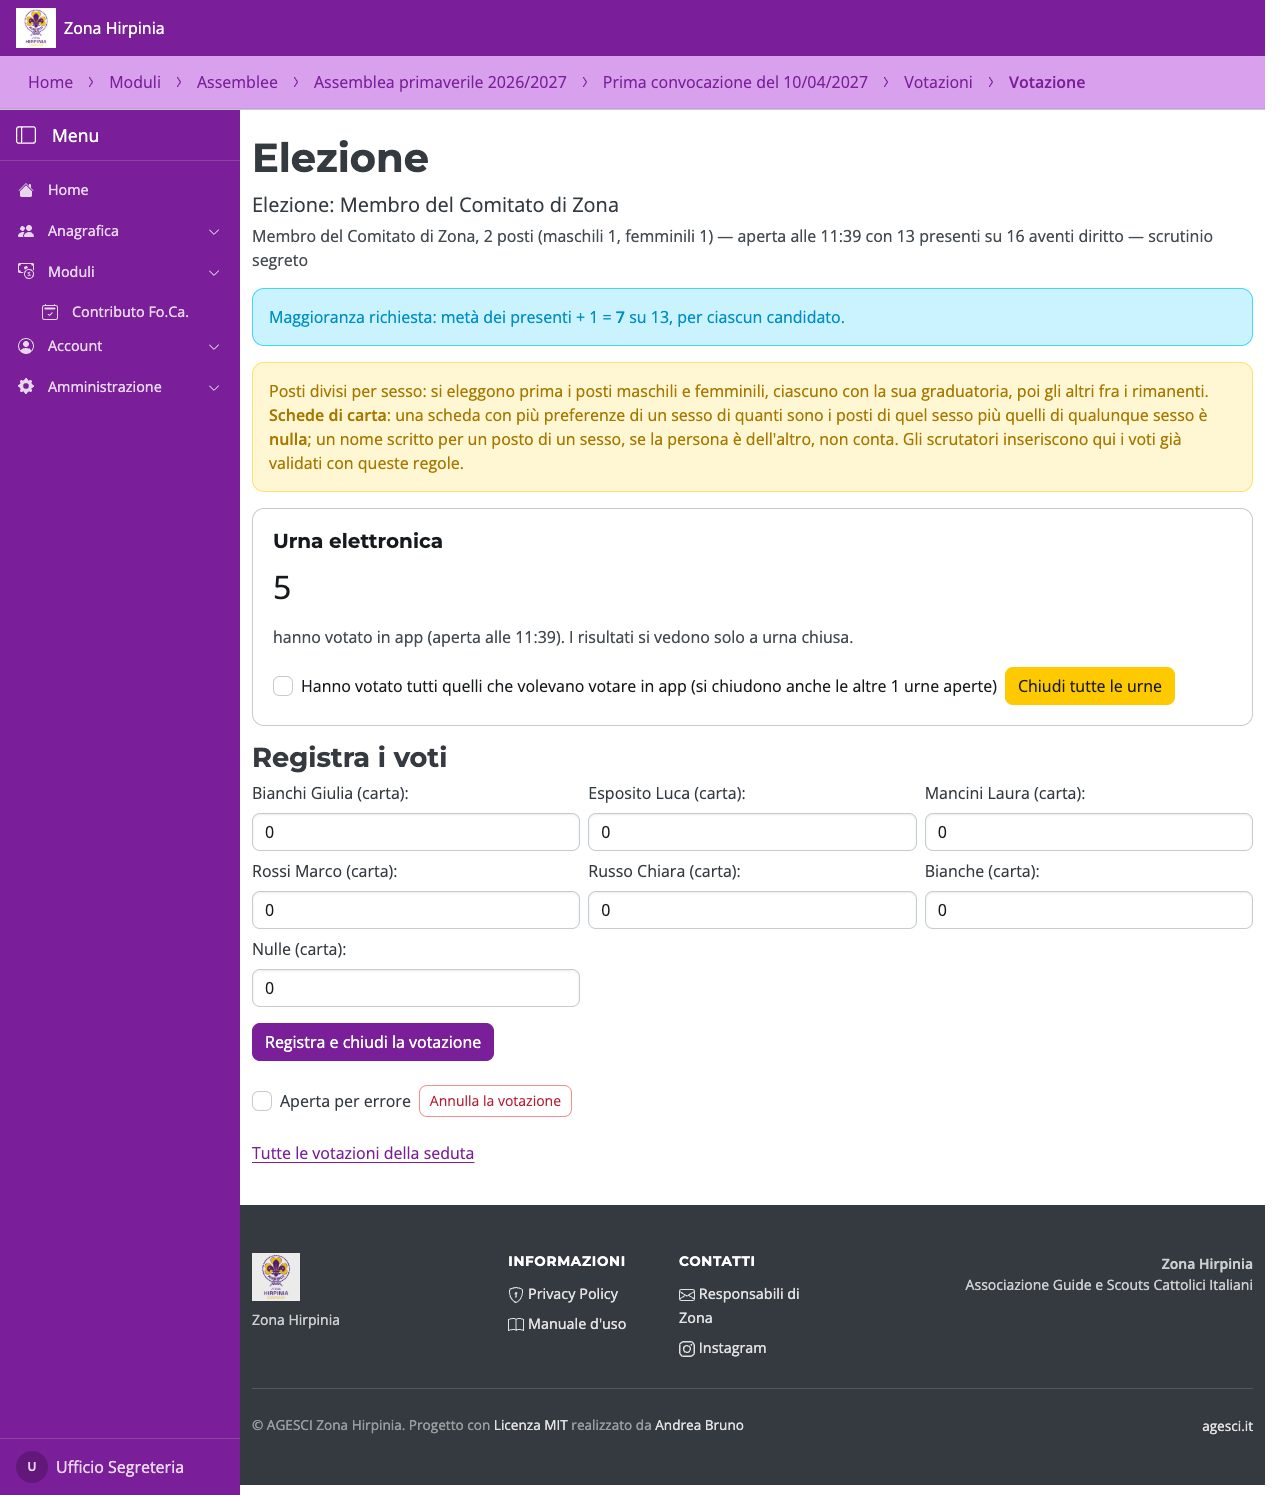
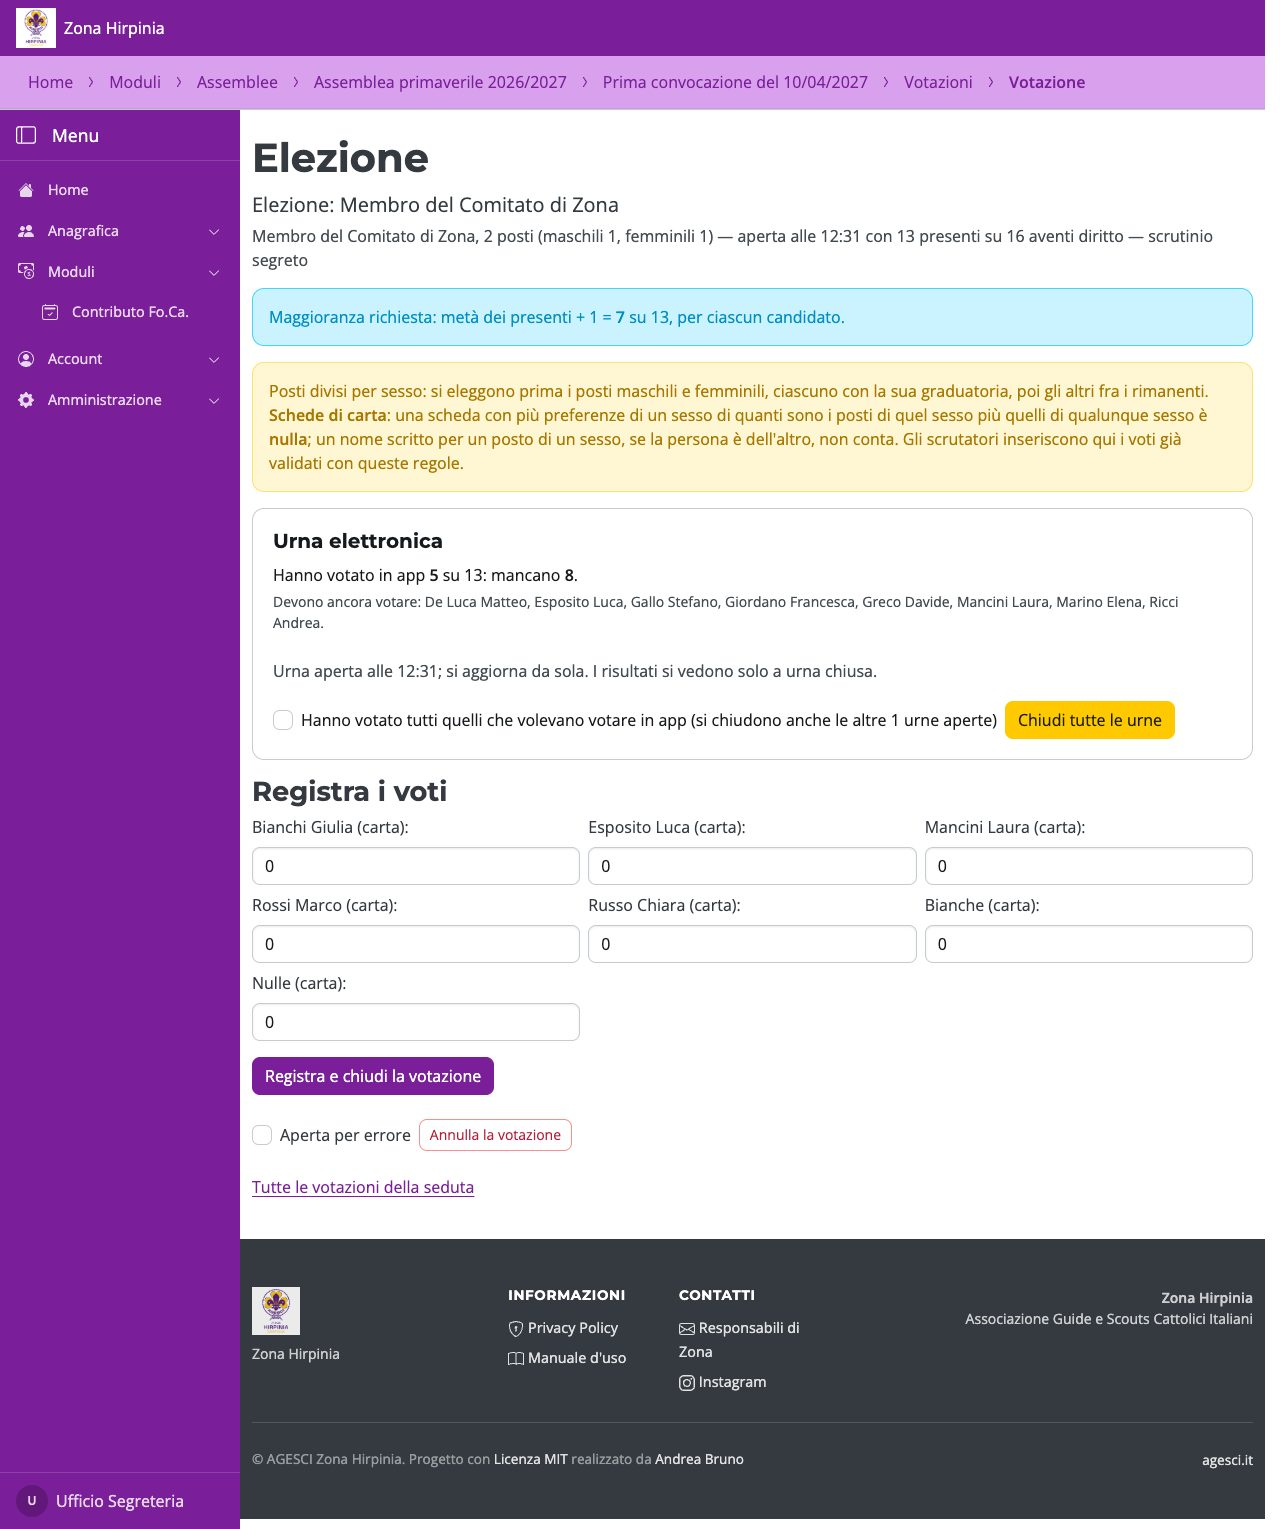
Urne aperte: chi ha votato e chi manca; ricevuta di nuovo a 30 secondi
Pagina della votazione, cruscotto e proiettore mostrano, aggiornati dal
polling, quanti hanno votato in app e quanti mancano per ogni urna aperta
(scrutinio.affluenza()); pagina della votazione e cruscotto anche l'elenco
di chi deve ancora votare, il proiettore solo i numeri. La ricevuta al
seggio torna a 30 secondi, con il pulsante di chiusura in evidenza in cima
e in fondo alla pagina.

diff --git a/static/js/assemblea-cruscotto.js b/static/js/assemblea-cruscotto.js
@@ -45,6 +45,66 @@
     corpo.replaceChildren(righe);
   }
 
+  // Affluenza delle urne aperte: stesso markup di templates/assemblee/_affluenza_urne.html.
+  function paragrafo(classi, parti) {
+    var p = document.createElement("p");
+    p.className = classi;
+    parti.forEach(function (parte) {
+      if (typeof parte === "string") {
+        p.appendChild(document.createTextNode(parte));
+      } else {
+        var strong = document.createElement("strong");
+        strong.textContent = String(parte.forte);
+        p.appendChild(strong);
+      }
+    });
+    return p;
+  }
+
+  function aggiornaUrne(urne) {
+    document.querySelectorAll("[data-urne]").forEach(function (contenitore) {
+      var solo = contenitore.dataset.urneVotazione;
+      var proiettore = contenitore.dataset.urneStile === "proiettore";
+      var blocchi = document.createDocumentFragment();
+      (urne || []).forEach(function (u) {
+        if (solo && String(u.votazione) !== solo) {
+          return;
+        }
+        var div = document.createElement("div");
+        div.className = "mb-5";
+        if (proiettore) {
+          div.appendChild(paragrafo("fs-4xl fw-bold mb-0", [u.votanti + " / " + u.attesi]));
+          div.appendChild(paragrafo("fs-lg mb-0", ["hanno votato in app — " + u.oggetto]));
+        } else {
+          if (!solo) {
+            var h3 = document.createElement("h3");
+            h3.className = "fs-lg mb-1";
+            h3.textContent = u.oggetto;
+            div.appendChild(h3);
+          }
+          div.appendChild(
+            paragrafo(
+              "mb-1",
+              ["Hanno votato in app ", { forte: u.votanti }, " su " + u.attesi + ": "].concat(
+                u.mancano ? ["mancano ", { forte: u.mancano }, "."] : ["hanno votato tutti."]
+              )
+            )
+          );
+          if (u.da_votare && u.da_votare.length) {
+            div.appendChild(
+              paragrafo("fs-sm fg-2 mb-0", ["Devono ancora votare: " + u.da_votare.join(", ") + "."])
+            );
+          }
+        }
+        blocchi.appendChild(div);
+      });
+      contenitore.replaceChildren(blocchi);
+    });
+    document.querySelectorAll("[data-se-urne]").forEach(function (el) {
+      el.classList.toggle("d-none", !(urne && urne.length));
+    });
+  }
+
   function applica(dati) {
     imposta("[data-campo='aventi_diritto']", dati.aventi_diritto);
     imposta("[data-campo='presenti']", dati.presenti);
@@ -87,6 +147,7 @@
       imposta("[data-campo='soglia_revoca']", dati.soglie.revoca);
     }
     aggiornaElenco(dati.elenco);
+    aggiornaUrne(dati.urne);
   }
 
   function segnalaConnessione(ok) {

diff --git a/templates/assemblee/votazione.html b/templates/assemblee/votazione.html
@@ -1,4 +1,5 @@
 {% extends "base.html" %}
+{% load static %}
 
 {% block page_title %}{{ votazione }}{% endblock %}
 
@@ -47,14 +48,14 @@
             {% endif %}
           {% endif %}
         {% elif not votazione.chiusa_in_app_il %}
-          <p class="fs-2xl mb-1">{{ urna.votanti }}</p>
-          <p class="fg-2 mb-3">hanno votato in app (aperta alle {{ votazione.aperta_in_app_il|time:"H:i" }}). I risultati si vedono solo a urna chiusa.</p>
+          {% include "assemblee/_affluenza_urne.html" with urne=urna.affluenza votazione_pk=votazione.pk %}
+          <p class="fg-2 mb-3">Urna aperta alle {{ votazione.aperta_in_app_il|time:"H:i" }}; si aggiorna da sola. I risultati si vedono solo a urna chiusa.</p>
           {% if puo_operare %}
             <form method="post" action="{% url 'voto:urna_azione' assemblea.pk seduta.pk votazione.pk %}" class="d-flex flex-wrap align-items-center gap-3">
               {% csrf_token %}<input type="hidden" name="azione" value="chiudi">
               <div class="form-field mb-0">
                 <input type="checkbox" name="conferma" value="1" id="conferma-chiudi-urna" class="check" required>
-                <label for="conferma-chiudi-urna">Hanno votato tutti quelli che volevano votare in app{% if urna.altre_aperte %} (si chiudono anche le altre {{ urna.altre_aperte|length }} urne aperte){% endif %}</label>
+                <label for="conferma-chiudi-urna">Hanno votato tutti quelli che volevano votare in app{% if urna.altre_aperte|length == 1 %} (si chiude anche l'altra urna aperta){% elif urna.altre_aperte %} (si chiudono anche le altre {{ urna.altre_aperte|length }} urne aperte){% endif %}</label>
               </div>
               <button type="submit" class="btn-solid theme-warning">{% if urna.altre_aperte %}Chiudi tutte le urne{% else %}Chiudi l'urna{% endif %}</button>
             </form>
@@ -113,4 +114,7 @@
   {% endif %}
 
   <p class="mt-7"><a href="{% url 'assemblee:votazioni' assemblea.pk seduta.pk %}">Tutte le votazioni della seduta</a></p>
+  {% if urna.prevista and votazione.aperta_in_app_il and not votazione.chiusa_in_app_il %}
+    <script src="{% static 'js/assemblea-cruscotto.js' %}" data-url-stato="{% url 'assemblee:stato_seduta' assemblea.pk seduta.pk %}?elenco=1" data-intervallo="{{ urna.intervallo_ms }}" defer></script>
+  {% endif %}
 {% endblock %}

diff --git a/templates/assemblee/_affluenza_urne.html b/templates/assemblee/_affluenza_urne.html
@@ -1,0 +1,17 @@
+{# Affluenza delle urne aperte (cruscotto.urne_in_corso()): la riscrive static/js/assemblea-cruscotto.js a ogni aggiornamento, con lo stesso markup. proiettore: solo numeri; votazione: solo quella urna. #}
+<div data-urne{% if proiettore %} data-urne-stile="proiettore"{% endif %}{% if votazione_pk %} data-urne-votazione="{{ votazione_pk }}"{% endif %}>
+  {% for u in urne %}{% if not votazione_pk or u.votazione == votazione_pk %}
+    {% if proiettore %}
+      <div class="mb-5">
+        <p class="fs-4xl fw-bold mb-0">{{ u.votanti }} / {{ u.attesi }}</p>
+        <p class="fs-lg mb-0">hanno votato in app — {{ u.oggetto }}</p>
+      </div>
+    {% else %}
+      <div class="mb-5">
+        {% if not votazione_pk %}<h3 class="fs-lg mb-1">{{ u.oggetto }}</h3>{% endif %}
+        <p class="mb-1">Hanno votato in app <strong>{{ u.votanti }}</strong> su {{ u.attesi }}: {% if u.mancano %}mancano <strong>{{ u.mancano }}</strong>.{% else %}hanno votato tutti.{% endif %}</p>
+        {% if u.da_votare %}<p class="fs-sm fg-2 mb-0">Devono ancora votare: {{ u.da_votare|join:", " }}.</p>{% endif %}
+      </div>
+    {% endif %}
+  {% endif %}{% endfor %}
+</div>

diff --git a/templates/voto/ricevuta.html b/templates/voto/ricevuta.html
@@ -8,6 +8,7 @@
   <div class="row justify-content-center">
     <div class="md:col-8">
       <h1 class="mb-3">Voto registrato</h1>
+      <div class="mb-7">{% include "voto/_ricevuta_chiudi.html" %}</div>
       <p class="mb-5">Annota {% if per_votazione|length == 1 and per_votazione.0.ricevute|length == 1 %}la ricevuta{% else %}le ricevute{% endif %}: a votazione chiusa potrai controllare in bacheca che ogni scheda sia stata contata così.</p>
       {% for voce in per_votazione %}
         <h2 class="fs-xl mb-3">{{ voce.votazione.oggetto }}</h2>
@@ -22,11 +23,7 @@
         {% endfor %}
       {% endfor %}
       <p class="fg-2 mb-5">La ricevuta non dice a nessuno chi sei. Non viene mostrata di nuovo: la puoi controllare in <a href="{% url 'voto:verifica' %}">verifica della ricevuta</a>.</p>
-      {% if al_seggio %}
-        <a href="{% url 'voto:urna' %}" class="btn-solid theme-primary w-100">Fatto, avanti il prossimo</a>
-      {% else %}
-        <a href="{% url 'voto:scheda' %}" class="btn-solid theme-primary w-100">Fatto</a>
-      {% endif %}
+      {% include "voto/_ricevuta_chiudi.html" %}
     </div>
   </div>
 {% endblock %}

diff --git a/templates/assemblee/proiettore.html b/templates/assemblee/proiettore.html
@@ -30,6 +30,10 @@ templates/500.html: Bootstrap 6 con la stessa versione e SRI del tema.
       <div class="md:col-4"><p class="fs-5xl fw-bold mb-0" data-campo="presenti_carta">{{ stato.presenti_carta }}</p><p class="fs-xl">votanti su carta</p></div>
     </div>
 
+    <div class="{% if not stato.urne %}d-none {% endif %}mb-7" data-se-urne>
+      {% include "assemblee/_affluenza_urne.html" with urne=stato.urne proiettore=True %}
+    </div>
+
     <div class="row g-7 mb-7">
       <div class="md:col-6"><p class="fs-4xl fw-bold mb-0" data-campo="soglia_deliberazioni">{{ stato.soglie.deliberazioni }}</p><p class="fs-lg">maggioranza per deliberazioni ed elezioni</p></div>
       <div class="md:col-6"><p class="fs-4xl fw-bold mb-0" data-campo="soglia_revoca">{{ stato.soglie.revoca }}</p><p class="fs-lg">maggioranza per la revoca di un mandato</p></div>

diff --git a/templates/voto/seggi.html b/templates/voto/seggi.html
@@ -7,7 +7,7 @@
   <p class="fg-2 mb-5">
     {{ assemblea }} — {{ seduta.get_convocazione_display }} — modalità: {{ assemblea.get_modalita_voto_display|lower }}.
     Ogni postazione è un tablet o un PC della Zona: si attiva aprendo il link sul dispositivo, che resta un seggio per questa seduta.
-    Dopo ogni voto la pagina mostra la ricevuta per 10 secondi e poi si azzera.
+    Dopo ogni voto la pagina mostra la ricevuta per 30 secondi e poi si azzera.
   </p>
 
   {% for messaggio in messages %}<div class="alert theme-{% if messaggio.tags == 'error' %}danger{% else %}success{% endif %} mb-5" role="status">{{ messaggio }}</div>{% endfor %}

diff --git a/templates/assemblee/cruscotto.html b/templates/assemblee/cruscotto.html
@@ -44,6 +44,11 @@
     {% include "assemblee/_azioni_seduta.html" %}
   </div>
 
+  <div class="{% if not stato.urne %}d-none {% endif %}mb-7" data-se-urne>
+    <h2 class="fs-xl">Urne aperte</h2>
+    {% include "assemblee/_affluenza_urne.html" with urne=stato.urne %}
+  </div>
+
   <h2 class="fs-xl">Maggioranze richieste ora</h2>
   <div class="table-responsive mb-5">
   <table class="table table-sm">

diff --git a/templates/voto/_ricevuta_chiudi.html b/templates/voto/_ricevuta_chiudi.html
@@ -1,0 +1,6 @@
+{# Pulsante di chiusura della ricevuta, in evidenza in cima e in fondo alla pagina. #}
+{% if al_seggio %}
+  <a href="{% url 'voto:urna' %}" class="btn-solid theme-success btn-lg w-100">Fatto, avanti il prossimo</a>
+{% else %}
+  <a href="{% url 'voto:scheda' %}" class="btn-solid theme-success btn-lg w-100">Fatto</a>
+{% endif %}

diff --git a/apps/voto/scrutinio.py b/apps/voto/scrutinio.py
@@ -30,6 +30,7 @@ from django.db import transaction
 from django.utils import timezone
 
 from apps.accounts.models import Utente
+from apps.assemblee import quorum
 from apps.assemblee.models import AventeDiritto, Candidato, Seduta, Votazione
 from apps.assemblee.permessi import puo_operare
 
@@ -52,6 +53,55 @@ def urna_usata(votazione: Votazione) -> bool:
 
 def numero_votanti(votazione: Votazione) -> int:
     return Votante.objects.filter(votazione=votazione).count()
+
+
+@dataclass(frozen=True)
+class DaVotare:
+    """Un presente che deve ancora votare in app; per un AE delegante,
+    `tramite` è il delegato che vota per lui."""
+
+    avente: AventeDiritto
+    tramite: AventeDiritto | None = None
+
+
+@dataclass(frozen=True)
+class Affluenza:
+    votanti: int
+    attesi: int
+    da_votare: list[DaVotare]
+
+    @property
+    def mancano(self) -> int:
+        return len(self.da_votare)
+
+
+def affluenza(votazione: Votazione) -> Affluenza:
+    """Chi ha votato in app e chi deve ancora farlo, fra i presenti che votano
+    in app (stessa regola di `urna.schede_spettanti()`: un AE delegante vota
+    tramite il delegato, solo se anche il delegato vota in app). «Chi ha
+    votato» è pubblico per regolamento; cosa ha votato no, e qui non c'è."""
+    seduta = votazione.seduta
+    presenti = list(quorum.presenti(seduta).filter(vota_in_app=True).order_by("cognome", "nome"))
+    di_persona = set(
+        quorum.presenti(seduta)
+        .filter(presenze__appello=quorum.appello_effettivo(seduta))
+        .values_list("pk", flat=True)
+    )
+    deleghe = {d.delegante_id: d.delegato for d in seduta.deleghe.select_related("delegato")}
+    gia = set(Votante.objects.filter(votazione=votazione).values_list("avente_id", flat=True))
+    attesi: list[DaVotare] = []
+    for avente in presenti:
+        if avente.pk in di_persona:
+            attesi.append(DaVotare(avente))
+        else:
+            delegato = deleghe.get(avente.pk)
+            if delegato is not None and delegato.vota_in_app:
+                attesi.append(DaVotare(avente, tramite=delegato))
+    return Affluenza(
+        votanti=len(gia),
+        attesi=len(attesi),
+        da_votare=[a for a in attesi if a.avente.pk not in gia],
+    )
 
 
 @transaction.atomic

diff --git a/apps/voto/tests/test_urna.py b/apps/voto/tests/test_urna.py
@@ -167,6 +167,28 @@ class TestDeleghe:
         assert neri.tramite.cognome == "Bianchi"
         assert Scheda.objects.count() == 2
 
+    def test_affluenza_con_delega(
+        self, delega, elezione, costituita, assemblea, segreteria, client
+    ):
+        from apps.assemblee import cruscotto
+        from apps.voto import scrutinio
+
+        prima = scrutinio.affluenza(elezione)
+        assert (prima.votanti, prima.attesi, prima.mancano) == (0, 4, 4)
+        neri = next(d for d in prima.da_votare if d.avente.cognome == "Neri")
+        assert neri.tramite.cognome == "Bianchi"
+        codice = _codice(costituita, assemblea, "Bianchi", segreteria)
+        # Bianchi vota per sé e per Neri.
+        urna.vota(codice.pk, elezione, [urna.Scelte(esito=urna.ESITO_BIANCA)] * 2)
+        dopo = scrutinio.affluenza(elezione)
+        assert (dopo.votanti, dopo.attesi) == (2, 4)
+        urne = cruscotto.urne_in_corso(costituita, con_elenco=True)
+        assert urne[0]["mancano"] == 2
+        nomi = " ".join(urne[0]["da_votare"])
+        assert len(urne[0]["da_votare"]) == 2 and "Bianchi" not in nomi and "Neri" not in nomi
+        # Sul proiettore solo i numeri.
+        assert "da_votare" not in cruscotto.urne_in_corso(costituita)[0]
+
     def test_delega_non_si_revoca_a_votazione_aperta(
         self, delega, elezione, costituita, assemblea, segreteria
     ):
@@ -303,3 +325,15 @@ def test_chi_arriva_a_urna_aperta_vota_e_conta(elezione, costituita, assemblea, 
     )
     elezione.refresh_from_db()
     assert elezione.chiusa
+
+
+@pytest.mark.django_db
+def test_pagine_con_affluenza(client, elezione, costituita, assemblea, segreteria):
+    client.force_login(segreteria)
+    base = f"/assemblee/{assemblea.pk}/sedute/{costituita.pk}"
+    cruscotto = client.get(f"{base}/cruscotto/").content.decode()
+    assert "Urne aperte" in cruscotto and "Devono ancora votare" in cruscotto
+    proiettore = client.get(f"{base}/proiettore/").content.decode()
+    assert "hanno votato in app" in proiettore and "Devono ancora votare" not in proiettore
+    stato = client.get(f"{base}/stato.json").json()
+    assert stato["urne"][0]["attesi"] == 3 and "da_votare" not in stato["urne"][0]

diff --git a/apps/assemblee/cruscotto.py b/apps/assemblee/cruscotto.py
@@ -88,6 +88,7 @@ def stato_seduta(seduta: Seduta, *, con_elenco: bool = False) -> dict:
             "soglia": in_verifica.soglia,
             "raggiunto": in_verifica.raggiunto,
         }
+    dati["urne"] = urne_in_corso(seduta, con_elenco=con_elenco)
     if con_elenco:
         dati["elenco"] = [
             {
@@ -105,6 +106,33 @@ def stato_seduta(seduta: Seduta, *, con_elenco: bool = False) -> dict:
             for p in elenco_presenti(seduta)
         ]
     return dati
+
+
+def urne_in_corso(seduta: Seduta, *, con_elenco: bool = False) -> list[dict]:
+    """Per ogni urna aperta: quanti hanno votato in app e quanti mancano (regola
+    in apps/voto/scrutinio.affluenza()). I nomi di chi manca solo con
+    `con_elenco`: sul proiettore vanno solo i numeri."""
+    # Import locale: apps.voto dipende già da apps.assemblee.
+    from apps.voto import scrutinio, urna
+
+    risultato = []
+    for votazione in urna.votazioni_aperte(seduta):
+        affluenza = scrutinio.affluenza(votazione)
+        dati: dict = {
+            "votazione": votazione.pk,
+            "oggetto": votazione.oggetto,
+            "votanti": affluenza.votanti,
+            "attesi": affluenza.attesi,
+            "mancano": affluenza.mancano,
+        }
+        if con_elenco:
+            dati["da_votare"] = [
+                f"{d.avente.cognome} {d.avente.nome}"
+                + (f" (per delega a {d.tramite.cognome} {d.tramite.nome})" if d.tramite else "")
+                for d in affluenza.da_votare
+            ]
+        risultato.append(dati)
+    return risultato
 
 
 def presenti_in_app(seduta: Seduta) -> list[Presente]:

diff --git a/apps/assemblee/views.py b/apps/assemblee/views.py
@@ -1818,6 +1818,10 @@ class VotazioneView(AccedeAssembleeMixin, BreadcrumbExtraMixin, View):
             "urna": {
                 "prevista": in_app,
                 "votanti": scrutinio_voto.numero_votanti(votazione) if in_app else 0,
+                "intervallo_ms": cruscotto.INTERVALLO_AGGIORNAMENTO_MS,
+                "affluenza": (
+                    cruscotto.urne_in_corso(votazione.seduta, con_elenco=True) if in_app else []
+                ),
                 "da_interpretare": (
                     len(scrutinio_voto.nomi_da_interpretare(votazione)) if in_app else 0
                 ),
